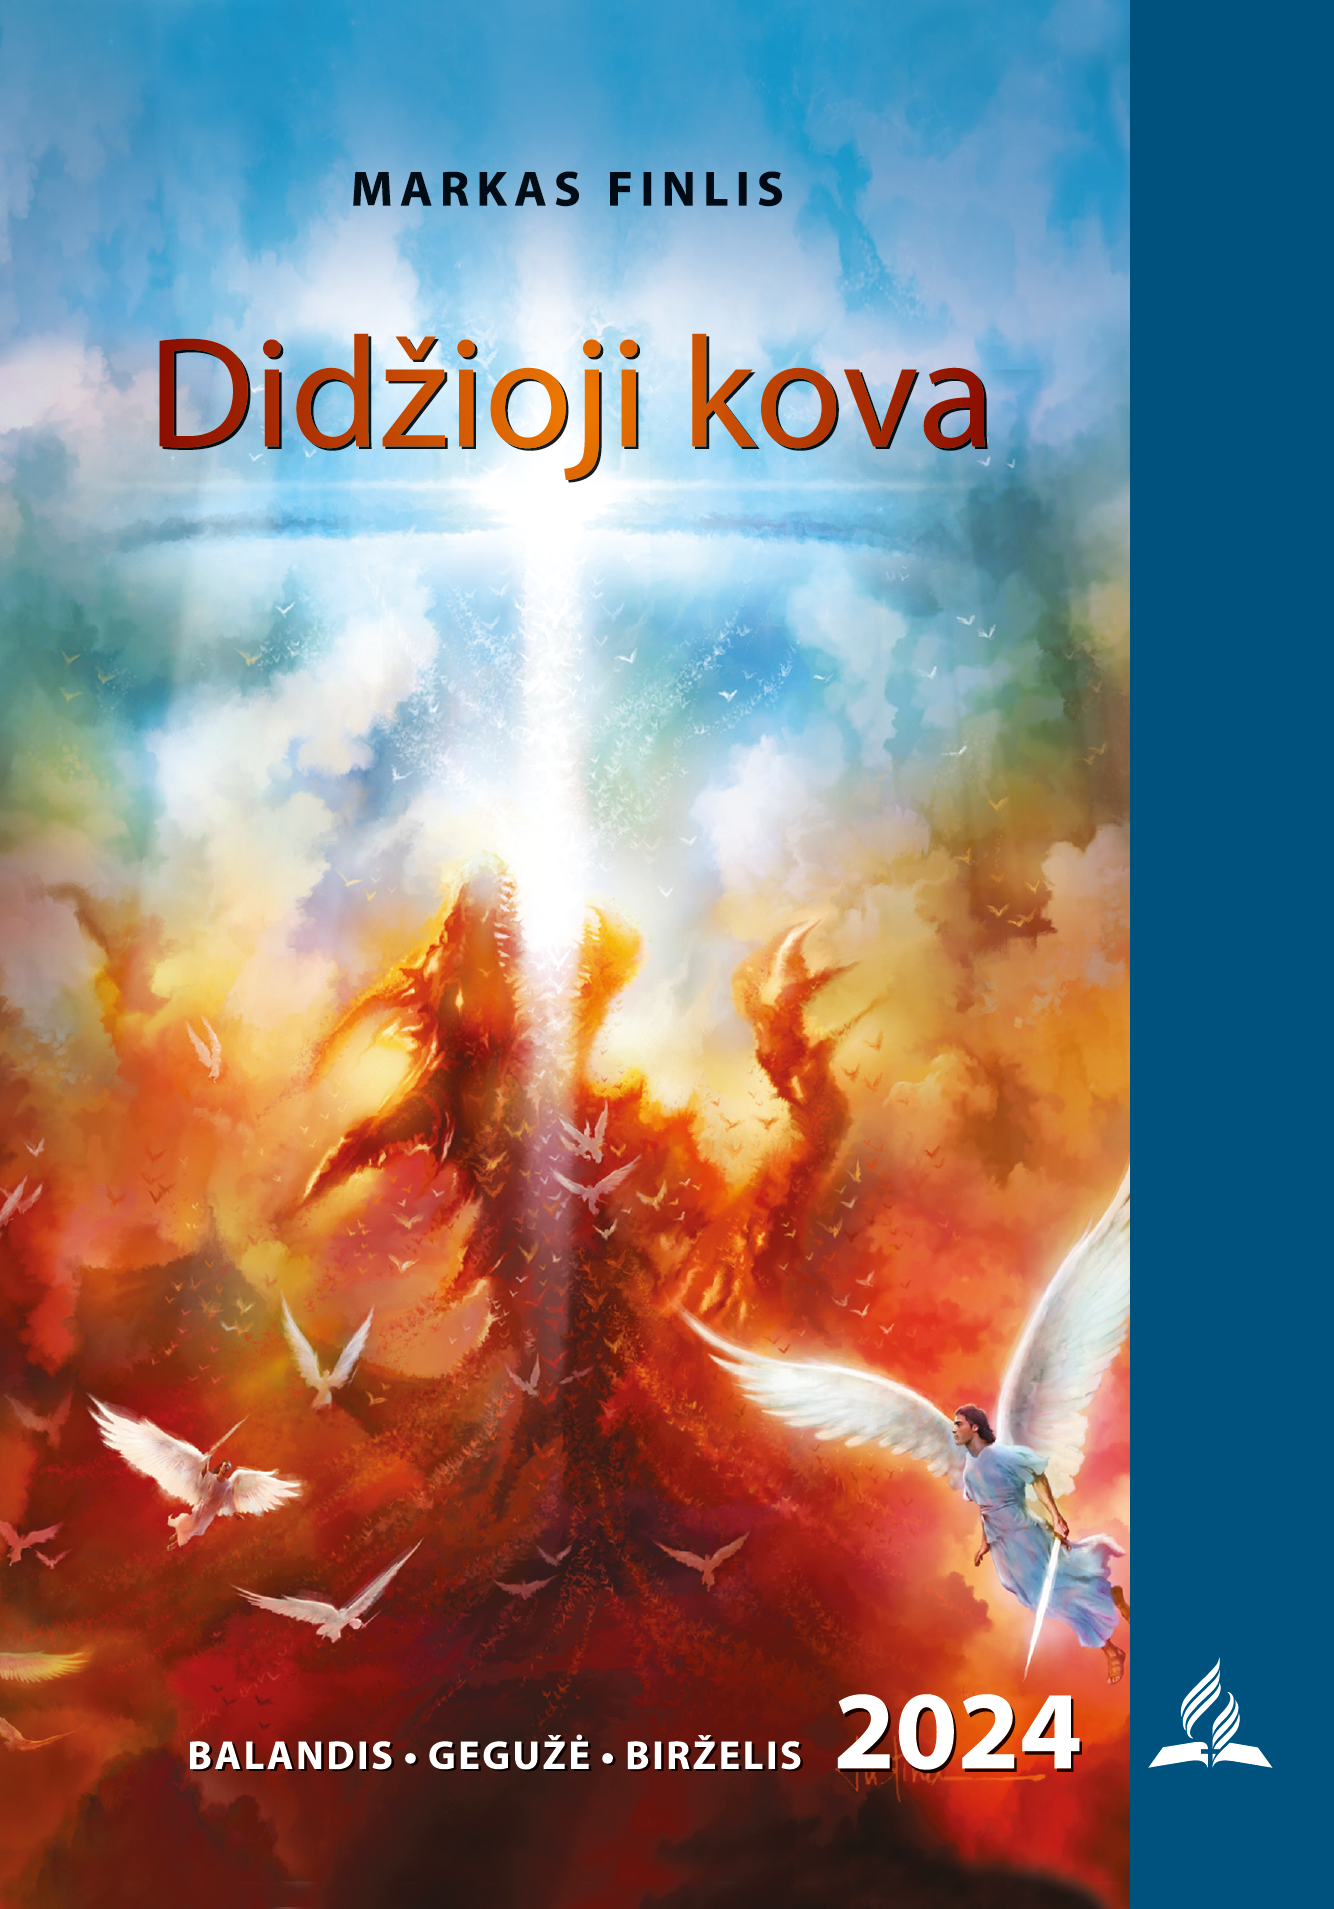
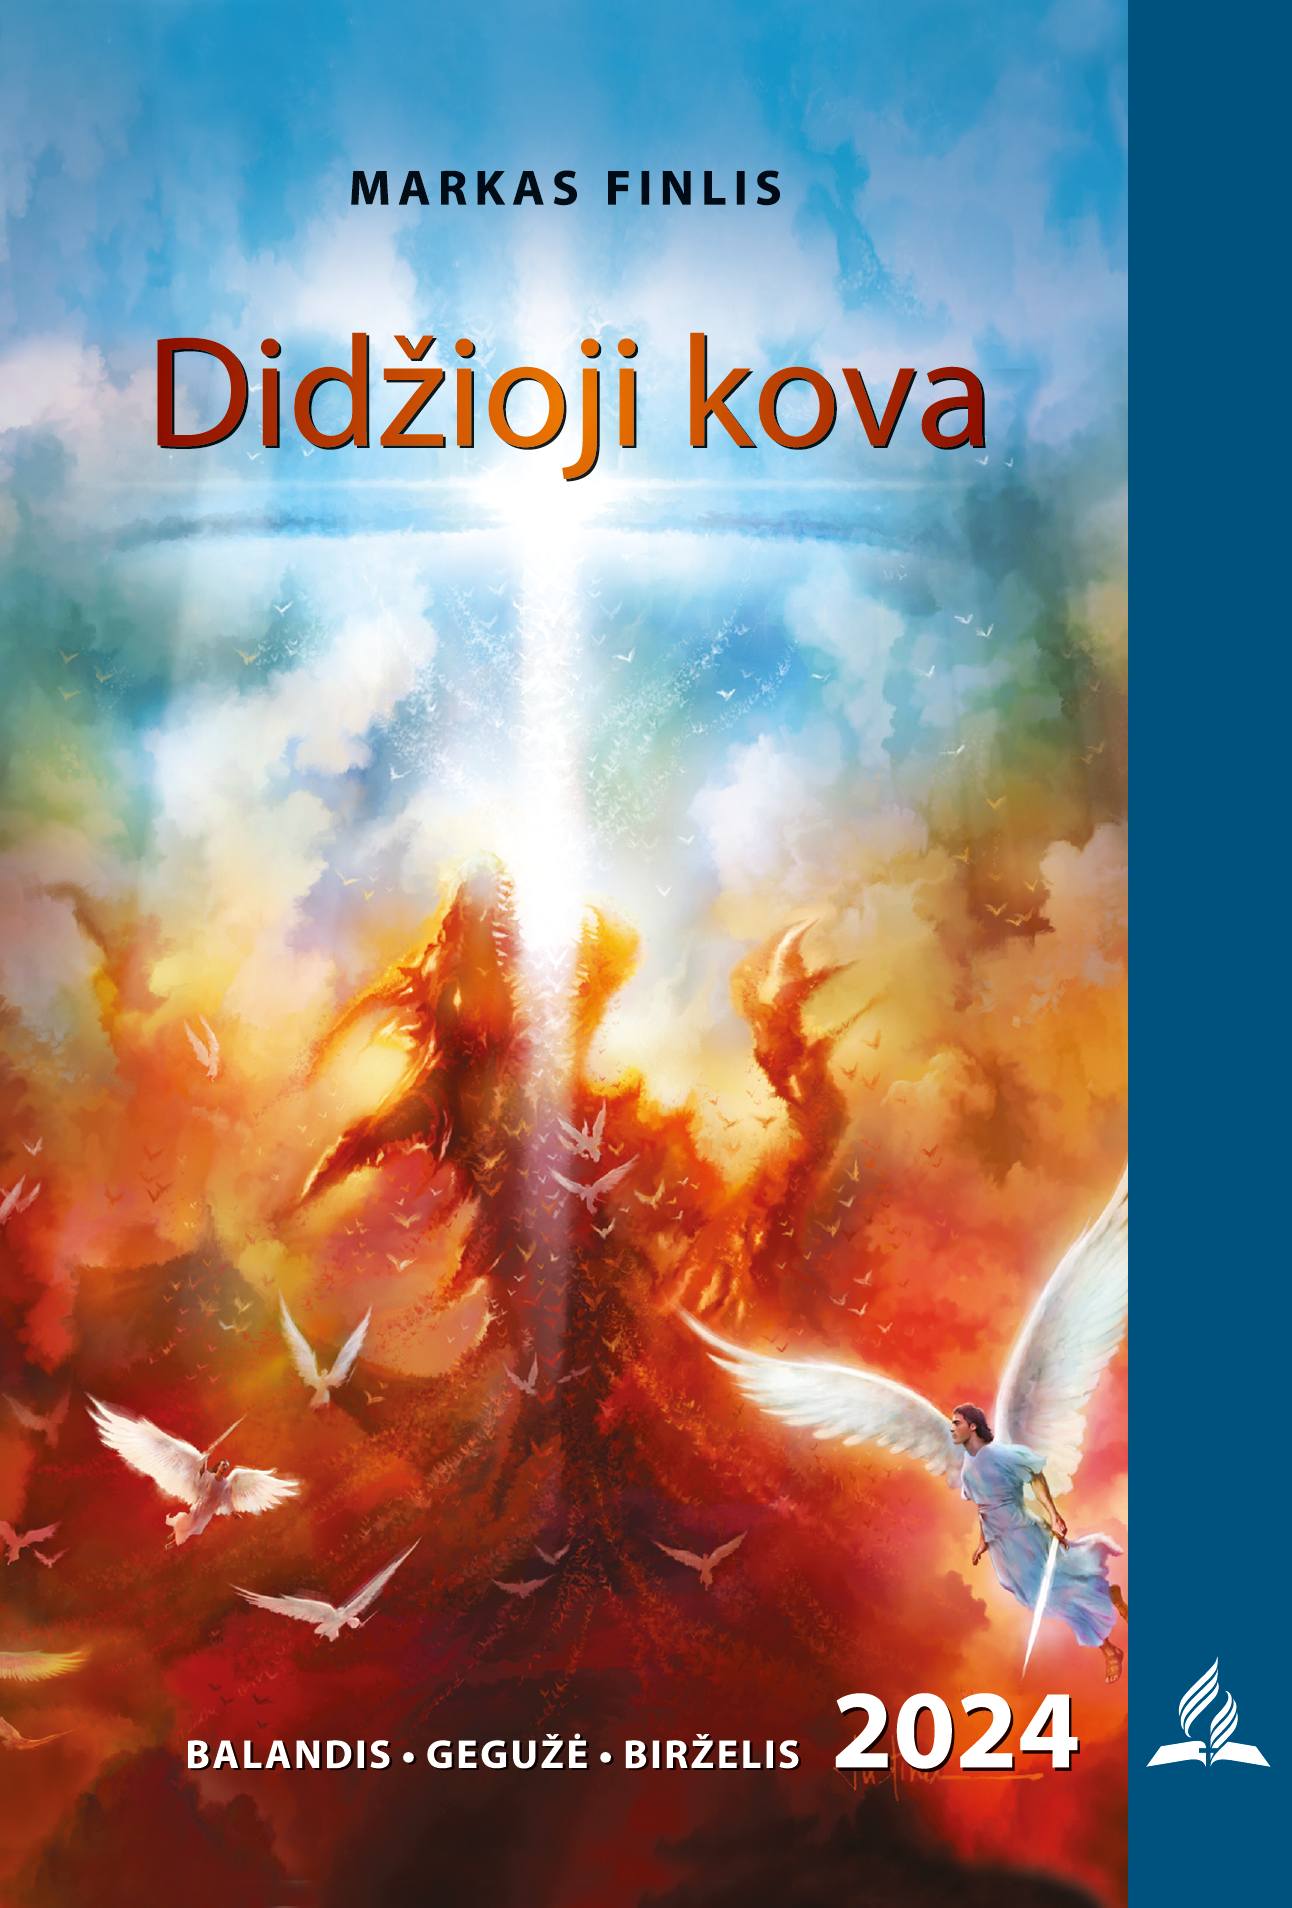
Add alligned cover lt/2024-02

diff --git a/src/lt/2024-02/01/02.md b/src/lt/2024-02/01/02.md
@@ -1,7 +1,21 @@
 ---
-title:  Pamoka
+title:  Kova danguje
 date:   31/03/2024
 ---
 
-### <center>Pamoka kuriama.</center>
-<center>Kviečiame sugrįžti vėliau.</center>
+`1.	Perskaitykite Apr 12, 7–9. Ką šios eilutės atskleidžia apie laisvę danguje ir pikto kilmę? Kai Liuciferis sukėlė maištą, kaip Dievas galėjo reaguoti?`
+
+Šiose eilutėse aprašomas kosminis gėrio ir blogio konfliktas. Šėto- nas ir jo angelai kovojo prieš Kristų ir galiausiai buvo išmesti iš dan- gaus. Atrodo nepaprastai keista, kad kova prasidėtų tokioje tobuloje vietoje kaip dangus. Kodėl taip atsitiko? Ar mylintis Dievas sukūrė de- monišką angelą, pradėjusį šią kovą? Ar šiame angele buvo koks nors lemtingas trūkumas, dėl kurio jis maištavo? Raštas paaiškina blogio kilmę. Atitraukia uždangą šiame gėrio ir blogio konflikte.
+
+`2.	Palyginkite Ez 28, 12–15 ir Iz 14, 12–14. Kas vyko šios angeliškos būtybės, kurią vadiname Liuciferiu, galvoje, kas paskatino jį maiš- tauti?`
+
+Dievas nesukūrė velnio. Jis sukūrė akinančio spindesio būtybę, vardu Aušrinis (lotyniškai Liuciferis). Ši angeliška būtybė buvo sukur- ta tobula. Į jo tobulumą buvo įtraukta ir laisvė rinktis – esminis Dievo valdymo principas, vedamas meilės, ne priverstinai. Nuodėmė kilo iš Liuciferio pačiame danguje. Nėra logiško paaiškinimo, kodėl šis tobu- las angelas leido puikybei ir pavydui įsišaknyti savo širdyje ir peraugti į maištą prieš Kūrėją.
+
+Liuciferis, sukurta būtybė, troško garbinimo, kuris tenka tik Kūrė- jui. Jis bandė užimti Dievo sostą abejodamas Dievo valdžia. Jo maiš- tas privedė prie atviros kovos danguje.
+
+Nors Dievas kantriai elgėsi su Liuciferiu, Jis negalėjo leisti jam suga- dinti dangaus savo maištu. „Dangaus pasitarime buvo kreiptasi į Liu- ciferį. Dievo Sūnus parodė jam Kūrėjo didybę, gerumą, teisingumą ir šventą, nekintančią Jo Įstatymo prigimtį. Juk pats Dievas nustatė dan- gaus tvarką, ir, pažeisdamas ją, Liuciferis įžeistų savo Kūrėją ir pražudy-
+ 
+
+tų save. Tačiau begalinės meilės ir gailestingumo paskatintas įspėjimas sukėlė tik pasipriešinimo jausmą“ (E. Vait, Didžioji kova, 2017, p. 428).
+
+Ko apie Dievo charakterį moko tai, kaip Jis kovoja su blogiu?

diff --git a/src/lt/2024-02/01/01.md b/src/lt/2024-02/01/01.md
@@ -4,6 +4,10 @@ date:   30/03/2024
 ---
 
 ### Šios savaitės tyrinėjimui skaitykite:
+Apr 12, 7–9; Ez 28, 12–15; Iz 14, 12–14; Pr 3, 15; Jn 17, 24–26.
 
 > <p>Įsimintina eilutė:</p>
-> 
+> „Ir užvirė danguje kova. Mykolas ir Jo angelai ko- vojo su slibinu. Ir kovėsi slibinas ir jo angelai, bet jie pralaimėjo, ir nebeliko jiems vietos danguje“ (Apr 12, 7–8).
+
+Jei Dievas toks geras, kodėl pasaulis toks blogas? Kaip mylintis Dievas gali leisti vyrauti blogiui? Kodėl bloga nutinka geriems žmo- nėms? Šią savaitę tyrinėsime amžiną kovą tarp gėrio ir blogio. Pra- dėdami Liuciferio maištu danguje, tyrinėsime blogio kilmę ir Dievo kantrybę sprendžiant nuodėmės klausimą.
+Dievas yra neįtikėtinos meilės Dievas. Pati Jo prigimtis yra meilė (1 Jn 4, 7–8). Visi Jo darbai atliekami iš meilės (Jer 31, 3). Meilė nieka- da negali būti priverstinė ar įteisinta įstatymais. E. Vait tai puikiai ap- rašė: „Meilė pažadinama tik meile“ (Su meile iš Dangaus, 2011, p.16). Gebėjimo rinktis atėmimas reiškia gebėjimo mylėti sunaikinimą, o gebėjimo mylėti sunaikinimas – tai galimybės būti tikrai laimingam sunaikinimas. Dievas laimi mūsų ištikimybę savo meile. Jis sprendžia didžiosios kovos tarp gėrio ir blogio klausimą taip, kad nuodėmė daugiau niekada neatsiras visatoje. Dievo tikslas yra parodyti visai vi- satai, kad Jis visada veikė savo kūrinių labui. Žvelgiant į pasaulį Dievo meilės akimis, didžiosios kovos tarp gėrio ir blogio šviesoje, kiekvie- nas iš mūsų patikinamas, kad teisingumas nugalės neteisingumą ir nugalės jį amžiams.
